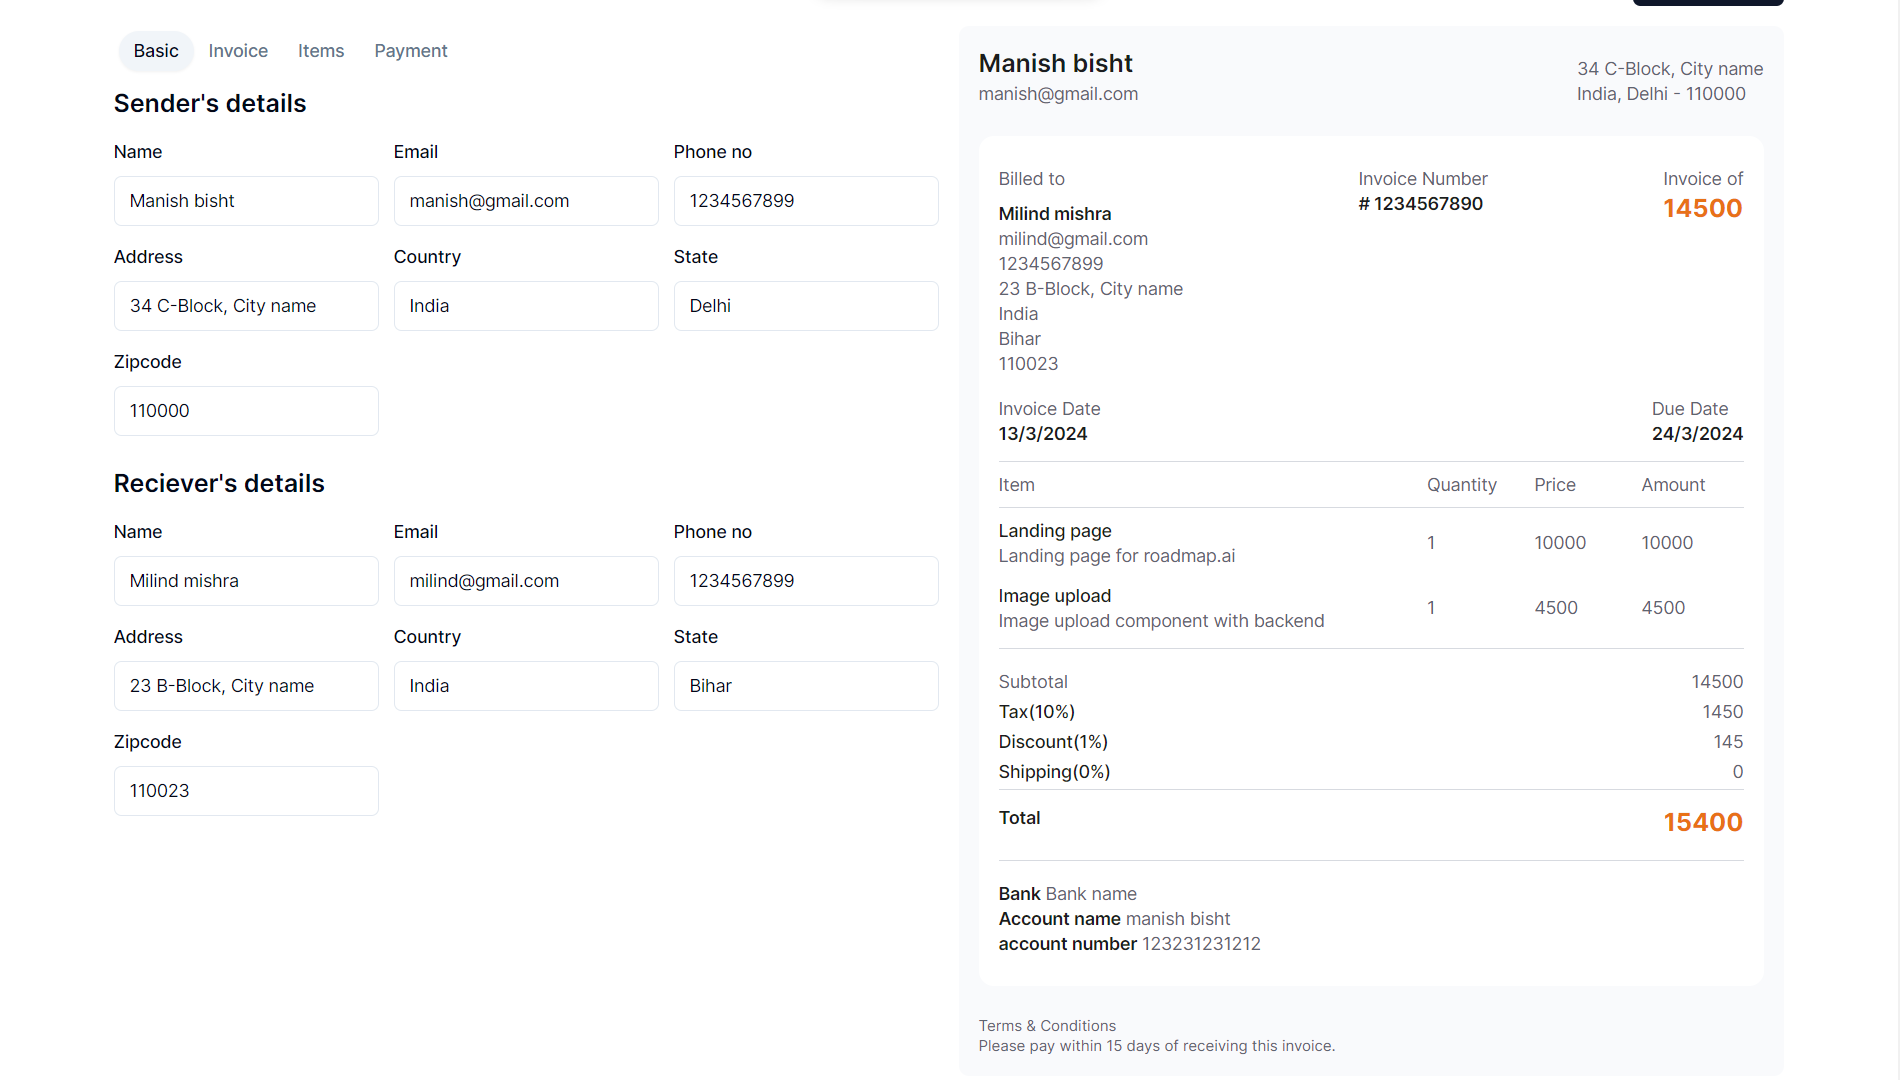
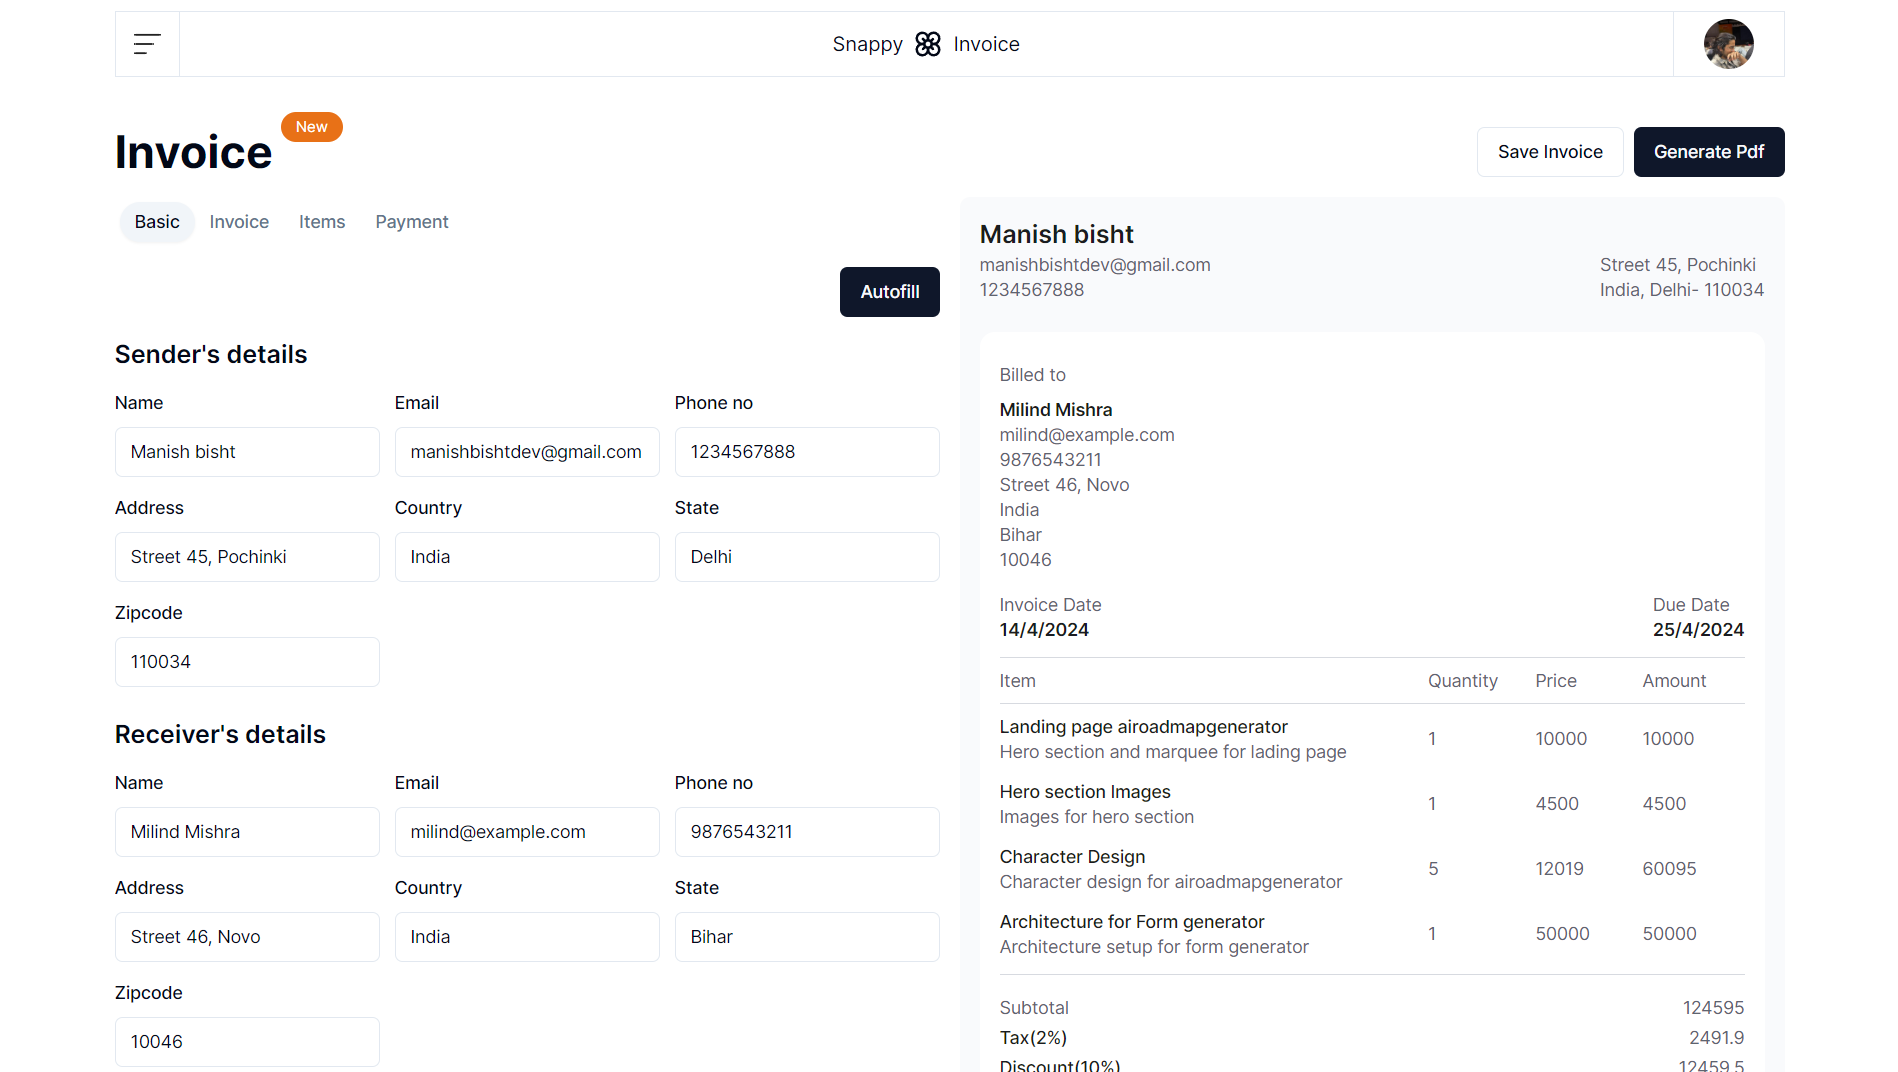
feat: currency support

diff --git a/src/components/form/invoiceDetails.tsx b/src/components/form/invoiceDetails.tsx
@@ -15,14 +15,33 @@ import {
   PopoverTrigger,
 } from "@/components/ui/popover";
 import { cn } from "@/lib/utils";
+import { templatePropsSchema } from "@/types/formSchema";
 import { format } from "date-fns";
 import { CalendarIcon } from "lucide-react";
-
+import { UseFormReturn } from "react-hook-form";
+import { z } from "zod";
+import {
+  Select,
+  SelectContent,
+  SelectItem,
+  SelectTrigger,
+  SelectValue,
+} from "../ui/select";
+import { codes } from "currency-codes";
 interface InvoiceDetailsProps {
-  form: any;
+  form: UseFormReturn<z.infer<typeof templatePropsSchema>>;
 }
 
 export function InvoiceDetails({ form }: InvoiceDetailsProps) {
+  const amount = 123444;
+  console.log(
+    new Intl.NumberFormat("en-US", {
+      style: "currency",
+      currency: "UAH",
+      currencyDisplay: "narrowSymbol",
+    }).format(amount)
+  );
+
   return (
     <>
       <div className="space-y-6 mt-6 w-full">
@@ -56,7 +75,7 @@ export function InvoiceDetails({ form }: InvoiceDetailsProps) {
                     <PopoverContent className="w-auto p-0" align="start">
                       <Calendar
                         mode="single"
-                        selected={field.value}
+                        selected={new Date(field.value)}
                         onSelect={field.onChange}
                         initialFocus
                       />
@@ -94,7 +113,7 @@ export function InvoiceDetails({ form }: InvoiceDetailsProps) {
                     <PopoverContent className="w-auto p-0" align="start">
                       <Calendar
                         mode="single"
-                        selected={field.value}
+                        selected={new Date(field.value)}
                         onSelect={field.onChange}
                         initialFocus
                       />
@@ -105,6 +124,33 @@ export function InvoiceDetails({ form }: InvoiceDetailsProps) {
               )}
             />
           </div>
+          <FormField
+            control={form.control}
+            name="invoiceDetails.currency"
+            render={({ field }) => (
+              <FormItem>
+                <FormLabel>Currency</FormLabel>
+                <Select
+                  onValueChange={field.onChange}
+                  defaultValue={field.value}
+                >
+                  <FormControl className="w-48">
+                    <SelectTrigger>
+                      <SelectValue placeholder="Select a Currency" />
+                    </SelectTrigger>
+                  </FormControl>
+                  <SelectContent>
+                    {codes().map((code) => (
+                      <SelectItem key={code} value={code}>
+                        {code}
+                      </SelectItem>
+                    ))}
+                  </SelectContent>
+                </Select>
+                <FormMessage />
+              </FormItem>
+            )}
+          />
         </div>
       </div>
     </>

diff --git a/src/components/templates/Modern.tsx b/src/components/templates/Modern.tsx
@@ -15,6 +15,11 @@ export default function Modern({ initialValue }: ModernTemplateProps) {
     0
   );
 
+  const formattedTotalAmount = new Intl.NumberFormat("en-US", {
+    style: "currency",
+    currency: templateValues.invoiceDetails.currency || "INR",
+  }).format(totalAmount);
+
   return (
     <div className="text-[#5E6470] md:text-sm text-xs w-full h-fit bg-[#F9FAFC] p-4 rounded-lg group relative">
       <div className="flex justify-between items-end">
@@ -107,7 +112,7 @@ export default function Modern({ initialValue }: ModernTemplateProps) {
           <div className="mt-4 space-y-1">
             <div className="flex justify-between">
               <p>Subtotal</p>
-              <p>{totalAmount}</p>
+              <p>{formattedTotalAmount}</p>
             </div>
 
             {templateValues.paymentDetails.tax > 0 && (
@@ -153,19 +158,24 @@ export default function Modern({ initialValue }: ModernTemplateProps) {
             <div className="flex justify-between border-t border-[#D7DAE0] mt-3 pt-3">
               <p className="text-[#1A1C21] font-semibold">Total</p>
               <p className="text-[#E87117] text-xl font-bold">
-                {totalAmount +
-                  getPercentageValue(
-                    totalAmount,
-                    templateValues.paymentDetails.shipping
-                  ) -
-                  getPercentageValue(
-                    totalAmount,
-                    templateValues.paymentDetails.discount
-                  ) +
-                  getPercentageValue(
-                    totalAmount,
-                    templateValues.paymentDetails.tax
-                  )}
+                {new Intl.NumberFormat("en-US", {
+                  style: "currency",
+                  currency: templateValues.invoiceDetails.currency || "INR",
+                }).format(
+                  totalAmount +
+                    getPercentageValue(
+                      totalAmount,
+                      templateValues.paymentDetails.shipping
+                    ) -
+                    getPercentageValue(
+                      totalAmount,
+                      templateValues.paymentDetails.discount
+                    ) +
+                    getPercentageValue(
+                      totalAmount,
+                      templateValues.paymentDetails.tax
+                    )
+                )}
               </p>
             </div>
           </div>
